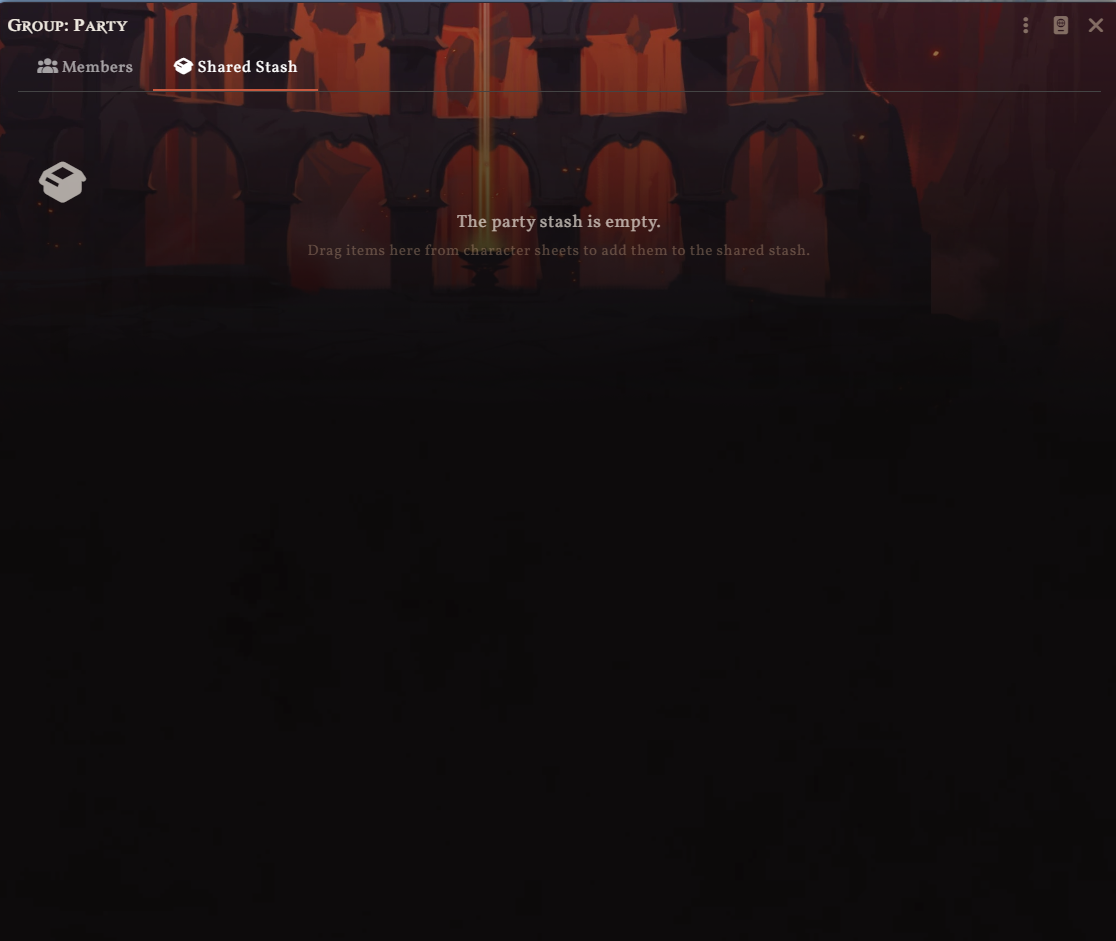
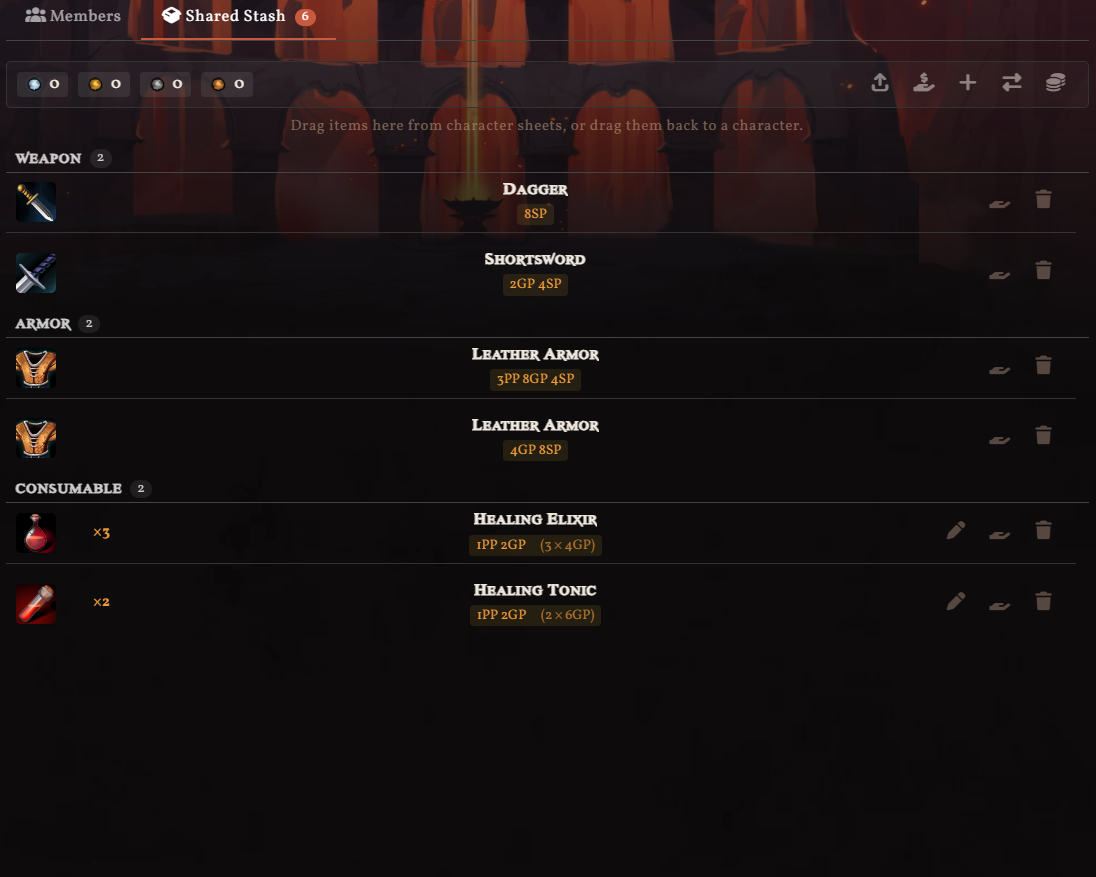
docs: refresh README for grouping, value display, and settings scope (1.7.5)

diff --git a/README.md b/README.md
@@ -20,10 +20,13 @@ Adds a **Stash** tab to the Group Actor sheet where players can pool items, dist
 - **Auto-Merge** — Stashing an item that matches an existing stash entry (same type, affixes, quality) increments the existing entry's quantity instead of creating a duplicate.
 - **Give to Character** — Click the give button to hand an item directly to any party member via a dropdown picker.
 - **Capacity Limit** — Set a maximum number of stash slots the stash can hold (0 = unlimited). Merged entries reuse existing slots.
+- **Item Type Grouping** — Stash entries are grouped under a heading by item type (Weapon, Armor, Consumable…) rather than repeating the type on every card. Only types that count as inventory produce a heading; anything else is collected into a trailing "Other" group so nothing is hidden.
+- **Item Value & Quantity** — Each row shows what the item is worth in Crucible's denomination format, and stack counts sit in their own column beside the icon. A stack shows its total with the unit breakdown, e.g. `1PP 2GP (3 × 4GP)`. Hovering an item shows the same value in the item card tooltip.
+- **Sorted Within Groups** — Items are ordered by name (A→Z), then by value (highest first), so identical items sit together and the best of a cluster reads first.
 - **Party Currency Pool** — A shared currency pool on the Stash tab with deposit, take, GM create, and GM split flows. All amounts are entered per denomination (pp/gp/sp/cp).
 - **Shaped or Shapeless Currency** — Configure the pool as a literal pile of coins (denominations tracked separately, GM exchange to make change) or an abstract purse (freely interchangeable, matching how character currency works).
 - **Role-Based Access** — Configure the minimum user role required to see and use the stash. GMs always have access.
-- **Quantity Display** — Shows item quantities for stackable Crucible items.
+- **Stash Resync** — Stash entries are frozen snapshots of the items placed in them. When Crucible updates an item's upstream data, live items update but stash snapshots do not. On first load after a system update, each entry is re-resolved against its compendium source, preserving player state (quantity, quality, equipped, broken, invested, and applied enchantments). Hand-made items with no compendium source are left alone. Runs once, automatically.
 
 ## Installation
 
@@ -52,14 +55,15 @@ This module **only** works with the Crucible game system. It hooks into `Crucibl
 
 ## Settings
 
-All settings are world-scoped and configurable by the GM under **Settings** → **Module Settings** → **Crucible Party Stash**.
+Configurable under **Settings** → **Module Settings** → **Crucible Party Stash**. All settings are world-scoped except Debug Logging, which is client-scoped.
 
-| Setting | Default | Description |
-|---|---|---|
-| Stash Capacity | 0 (unlimited) | Maximum number of stash slots. Merged entries reuse existing slots. Set to 0 for no limit. |
-| Confirm Transfer | Enabled | For single items, show a confirmation dialog when moving to the stash. For stacks, a quantity prompt is always shown regardless of this setting. |
-| Minimum Role | Player | The minimum user role required to see and interact with the stash tab. |
-| Shaped Currency Pool | Enabled | **ON:** the pool is a literal pile of coins — pp/gp/sp/cp are tracked and spent separately, with no automatic conversion. Use the GM **Exchange** button to make change (e.g. 1pp → 10gp). **OFF:** the pool is an abstract purse — denominations are freely interchangeable and totals display in the largest possible denominations. Switching this setting reshapes the existing pool immediately. |
+| Setting | Scope | Default | Description |
+|---|---|---|---|
+| Stash Capacity | World | 0 (unlimited) | Maximum number of stash slots. Merged entries reuse existing slots. Set to 0 for no limit. |
+| Confirm Transfer | World | Enabled | For single items, show a confirmation dialog when moving to the stash. For stacks, a quantity prompt is always shown regardless of this setting. |
+| Minimum Role | World | Player | The minimum user role required to see and interact with the stash tab. |
+| Shaped Currency Pool | World | Enabled | **ON:** the pool is a literal pile of coins — pp/gp/sp/cp are tracked and spent separately, with no automatic conversion. Use the GM **Exchange** button to make change (e.g. 1pp → 10gp). **OFF:** the pool is an abstract purse — denominations are freely interchangeable and totals display in the largest possible denominations. Switching this setting reshapes the existing pool immediately. |
+| Debug Logging | Client | Disabled | Write detailed stash diagnostics to the browser console (F12). Being client-scoped, it can be toggled live without a reload and won't affect other users. |
 
 ## Usage
 
@@ -67,7 +71,9 @@ All settings are world-scoped and configurable by the GM under **Settings** → 
 2. **Add items** — Drag an item from any Hero or Adversary character sheet onto the Stash tab. For stacked items (qty > 1), a dialog lets you choose how many to stash.
 3. **Retrieve items** — Either drag an item from the stash onto a character sheet, or click the give button and pick a party member from the list. For stacked items, a dialog lets you choose how many to take.
 4. **Auto-merge** — Stashing an item that matches an existing stash entry (same affixes, quality, etc.) automatically increments the existing entry's quantity.
-5. **Remove items** — Click the trash icon to delete an item from the stash entirely.
+5. **Read the stash** — Items are grouped by type and sorted by name then value. Each row shows the item's value and, for stacks, its count beside the icon. Hover an item for its full card and value.
+6. **Edit quantities** — GMs can click the pen control on a stackable entry to set its quantity directly, without depositing and re-withdrawing.
+7. **Remove items** — Click the trash icon to delete an item from the stash entirely.
 
 ## Compatibility
 
